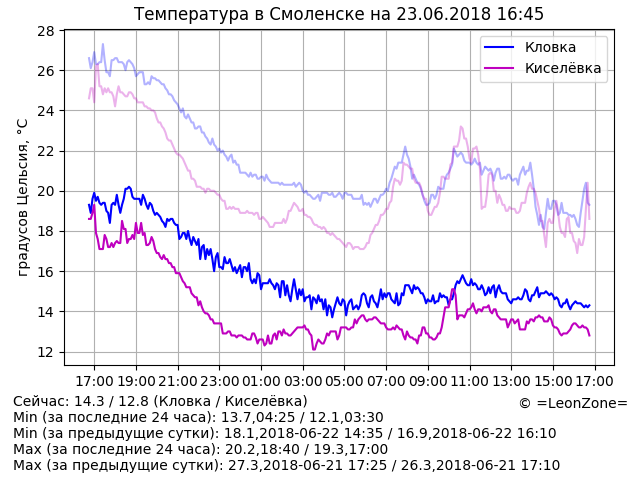
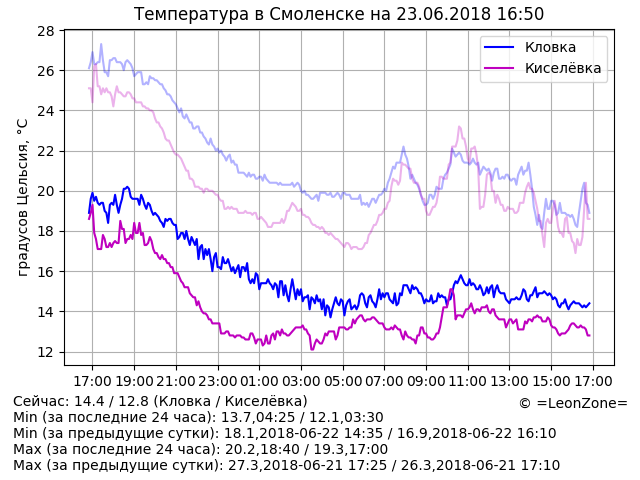
Update data

diff --git a/index.html b/index.html
@@ -14,7 +14,7 @@
 	<p align="center"><script>document.write("<img src=\"graph.png?rnd="+Math.random()+"\" alt=\"Температура в Смоленске\" align=\"middle\" width=\"640\" height=\"480\" />")</script>
 	<p hidden="true">
 <!-- textinfo -->
-Сейчас: 14.3 / 12.8 (Кловка / Киселёвка)
+Сейчас: 14.4 / 12.8 (Кловка / Киселёвка)
 Min (за последние 24 часа): 13.7,04:25 / 12.1,03:30
 Min (за предыдущие сутки): 18.1,2018-06-22 14:35 / 16.9,2018-06-22 16:10
 Max (за последние 24 часа): 20.2,18:40 / 19.3,17:00
